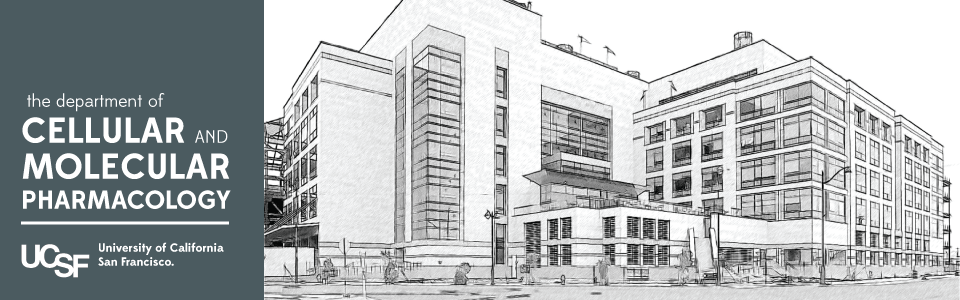
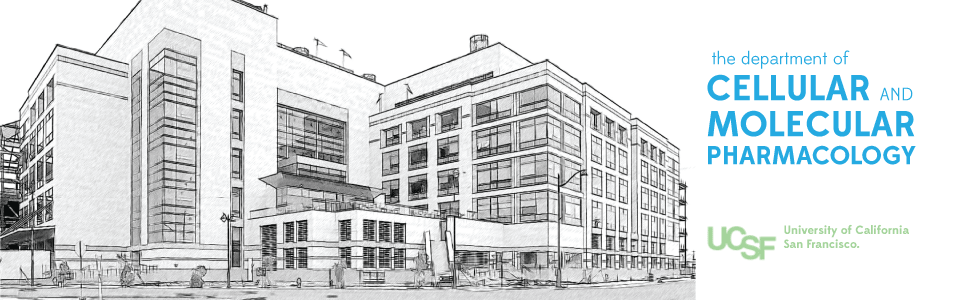
changed link colors to blue. improved the first slide

diff --git a/_site/assets/css/colorschema.css b/_site/assets/css/colorschema.css
@@ -7,13 +7,13 @@ light-grey: #f2f2f2;
 
 /* Links */
 a,a:visited  {
-  color: #57ad68;
+  color: #25aae1;
   text-decoration: none;
   /*font-weight: bold;*/
 }
 
 a:hover {
-  color: #4bad00;
+  color: #1D75BB;
   text-decoration: none; 
 }
 /*

diff --git a/assets/css/colorschema.css b/assets/css/colorschema.css
@@ -7,13 +7,13 @@ light-grey: #f2f2f2;
 
 /* Links */
 a,a:visited  {
-  color: #57ad68;
+  color: #25aae1;
   text-decoration: none;
   /*font-weight: bold;*/
 }
 
 a:hover {
-  color: #4bad00;
+  color: #1D75BB;
   text-decoration: none; 
 }
 /*
